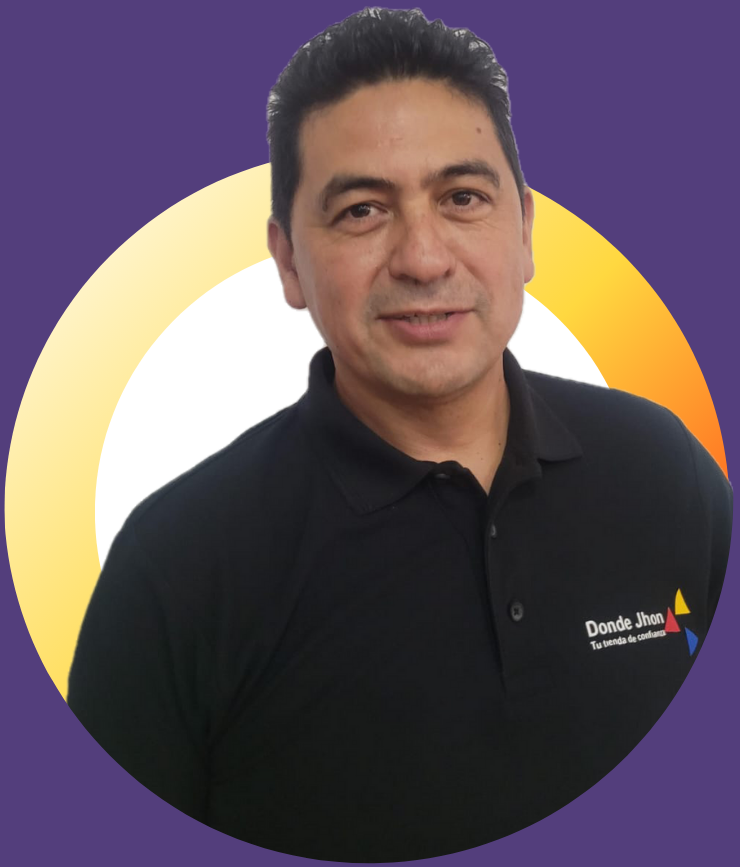
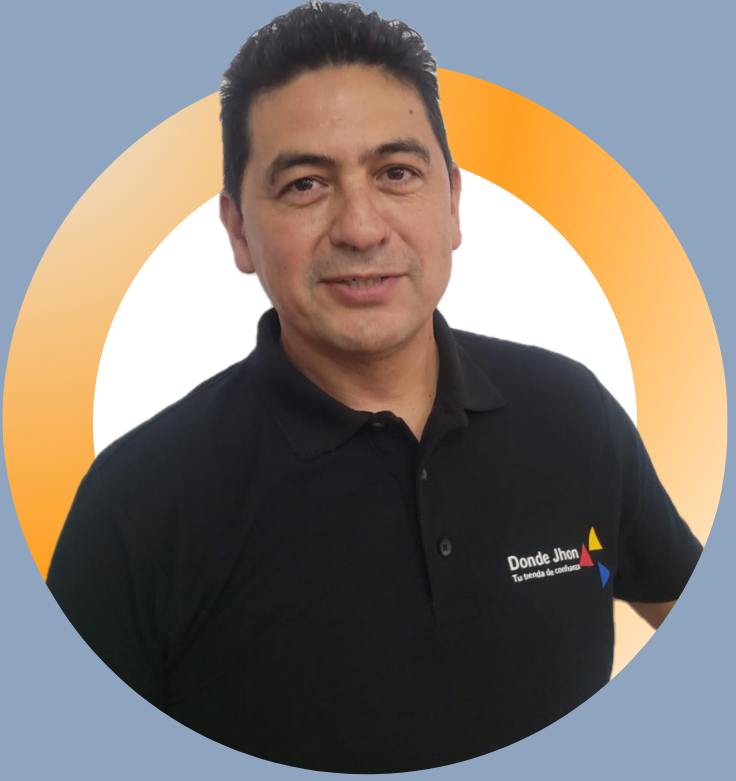
dffv

diff --git a/nosotros.html b/nosotros.html
@@ -79,14 +79,14 @@
         </div>
 
         <div class="upper">
-            <svg xmlns="http://www.w3.org/2000/svg" viewBox="0 0 1440 200"><path fill="#533e7c" fill-opacity="1" d="M0,192L48,165.3C96,139,192,85,288,64C384,43,480,53,576,64C672,75,768,85,864,106.7C960,128,1056,160,1152,160C1248,160,1344,128,1392,112L1440,96L1440,320L1392,320C1344,320,1248,320,1152,320C1056,320,960,320,864,320C768,320,672,320,576,320C480,320,384,320,288,320C192,320,96,320,48,320L0,320Z"></path></svg>
+            <svg xmlns="http://www.w3.org/2000/svg" viewBox="0 0 1440 200"><path fill="#8fa4bf" fill-opacity="1" d="M0,192L48,165.3C96,139,192,85,288,64C384,43,480,53,576,64C672,75,768,85,864,106.7C960,128,1056,160,1152,160C1248,160,1344,128,1392,112L1440,96L1440,320L1392,320C1344,320,1248,320,1152,320C1056,320,960,320,864,320C768,320,672,320,576,320C480,320,384,320,288,320C192,320,96,320,48,320L0,320Z"></path></svg>
         </div>
         <div class="empleados">
           <div>
             <h1 class="h1em">Nuestros empleados</h1>
           </div>
           <div class="contenedorem">
-            <div class="imgem">
+            <div class="imgem mb-4">
                 <img src="assets/nosotros/empleados-1.png" alt="empleado" style="height: 300px;">
             </div>
             <div class="imgem">

diff --git a/css/style-nosotros.css b/css/style-nosotros.css
@@ -148,7 +148,7 @@
 }
 
 .empleados{
-    background-color:#533e7c;
+    background-color:#8fa4bf;
     color: #dcdfe9;
     text-align:center;
 }
@@ -170,7 +170,7 @@
 
 @media (min-width: 1000px){
     .empleados{
-        background-color:#533e7c;
+        background-color:#8fa4bf;
         color: #dcdfe9;
         text-align:center;
     }
